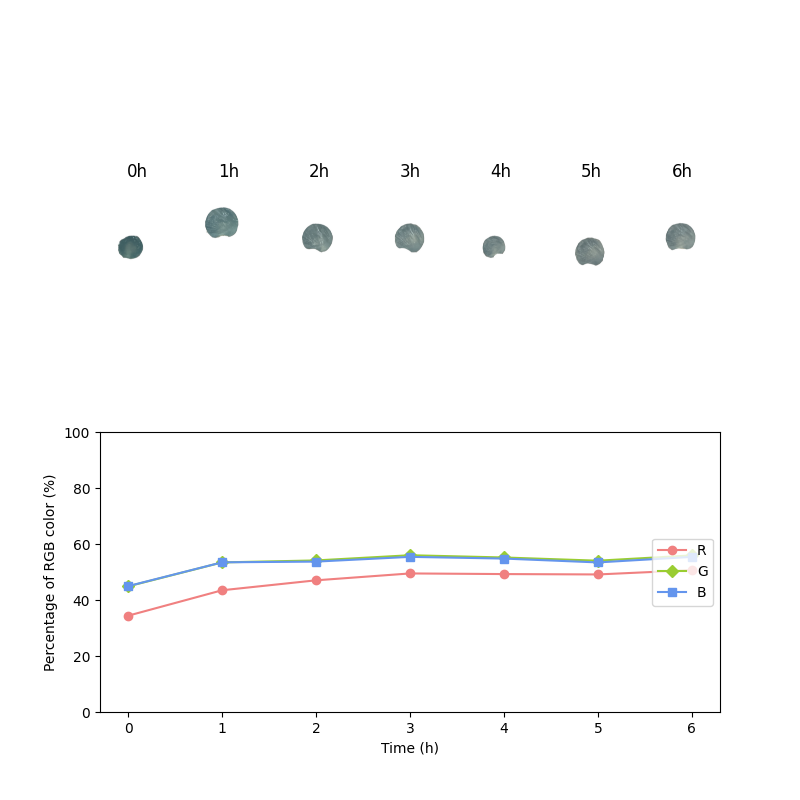
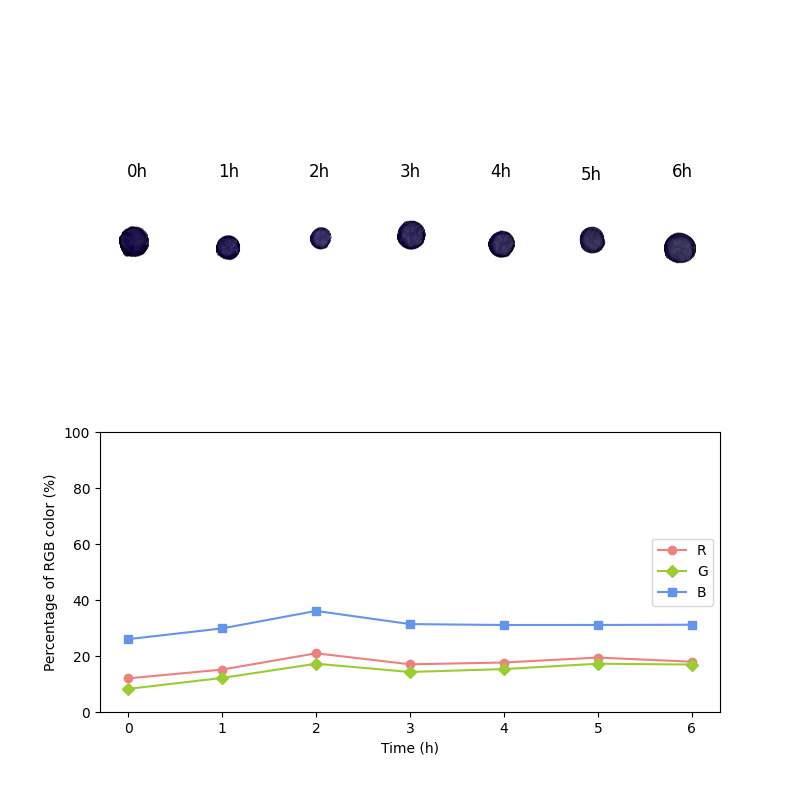
1

diff --git a/over_time.py b/over_time.py
@@ -71,7 +71,7 @@ def comparison(imgs):
   plt.show()
 
 def main():
-  image_dict = load_images('0.1mM 6h')
+  image_dict = load_images('50mM 6h')
   comparison(image_dict)
 
 
